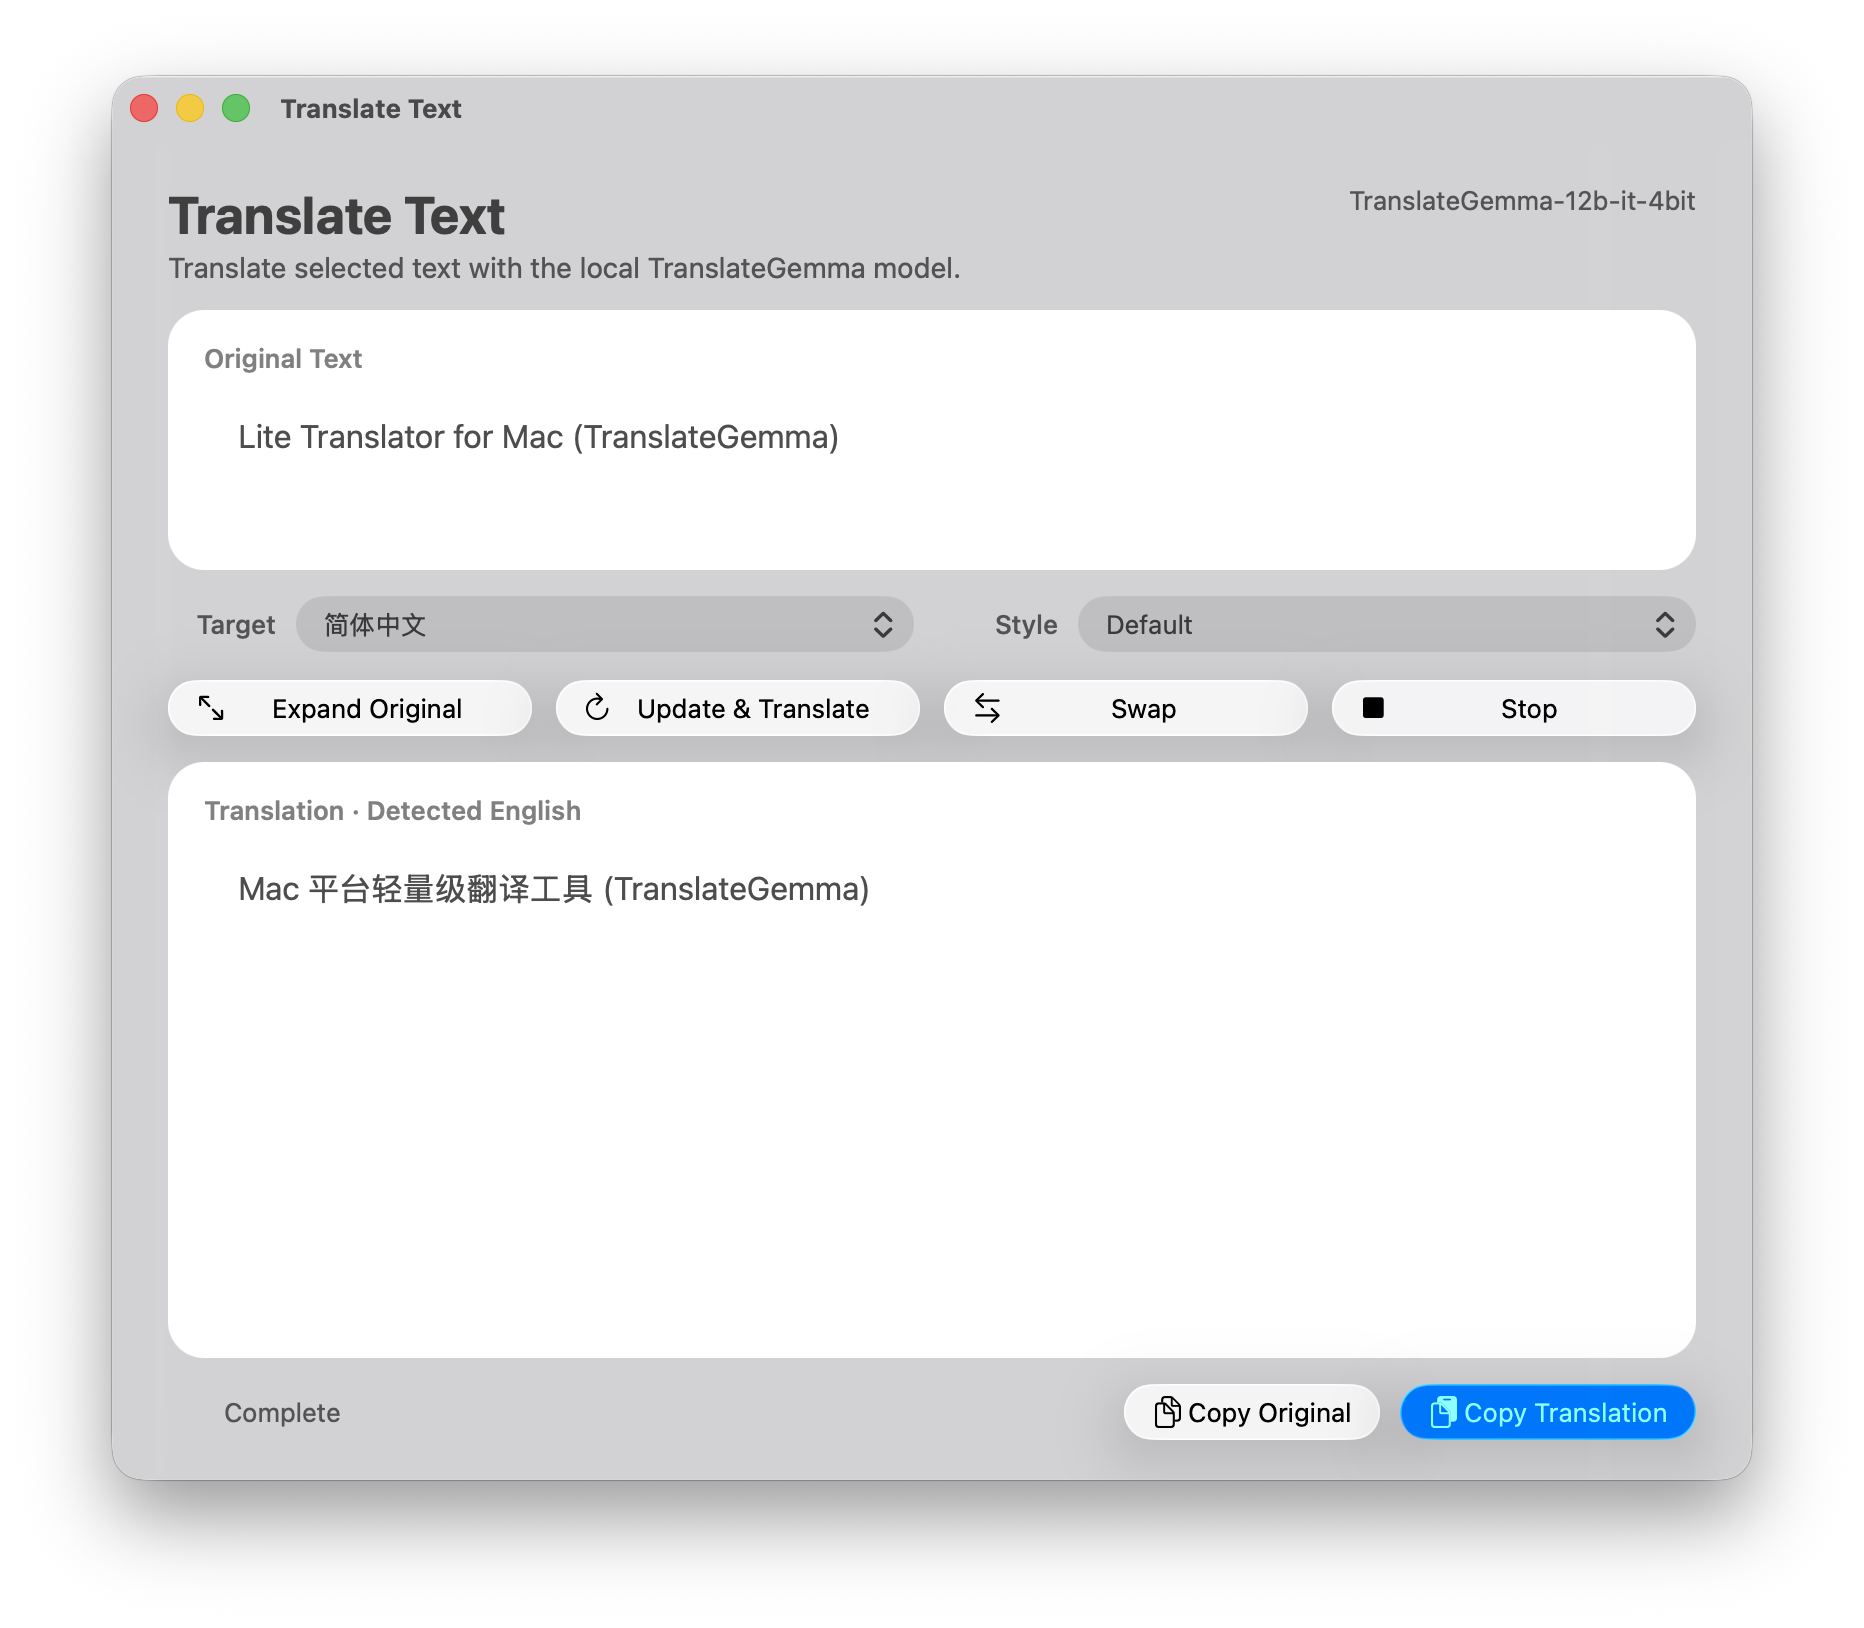
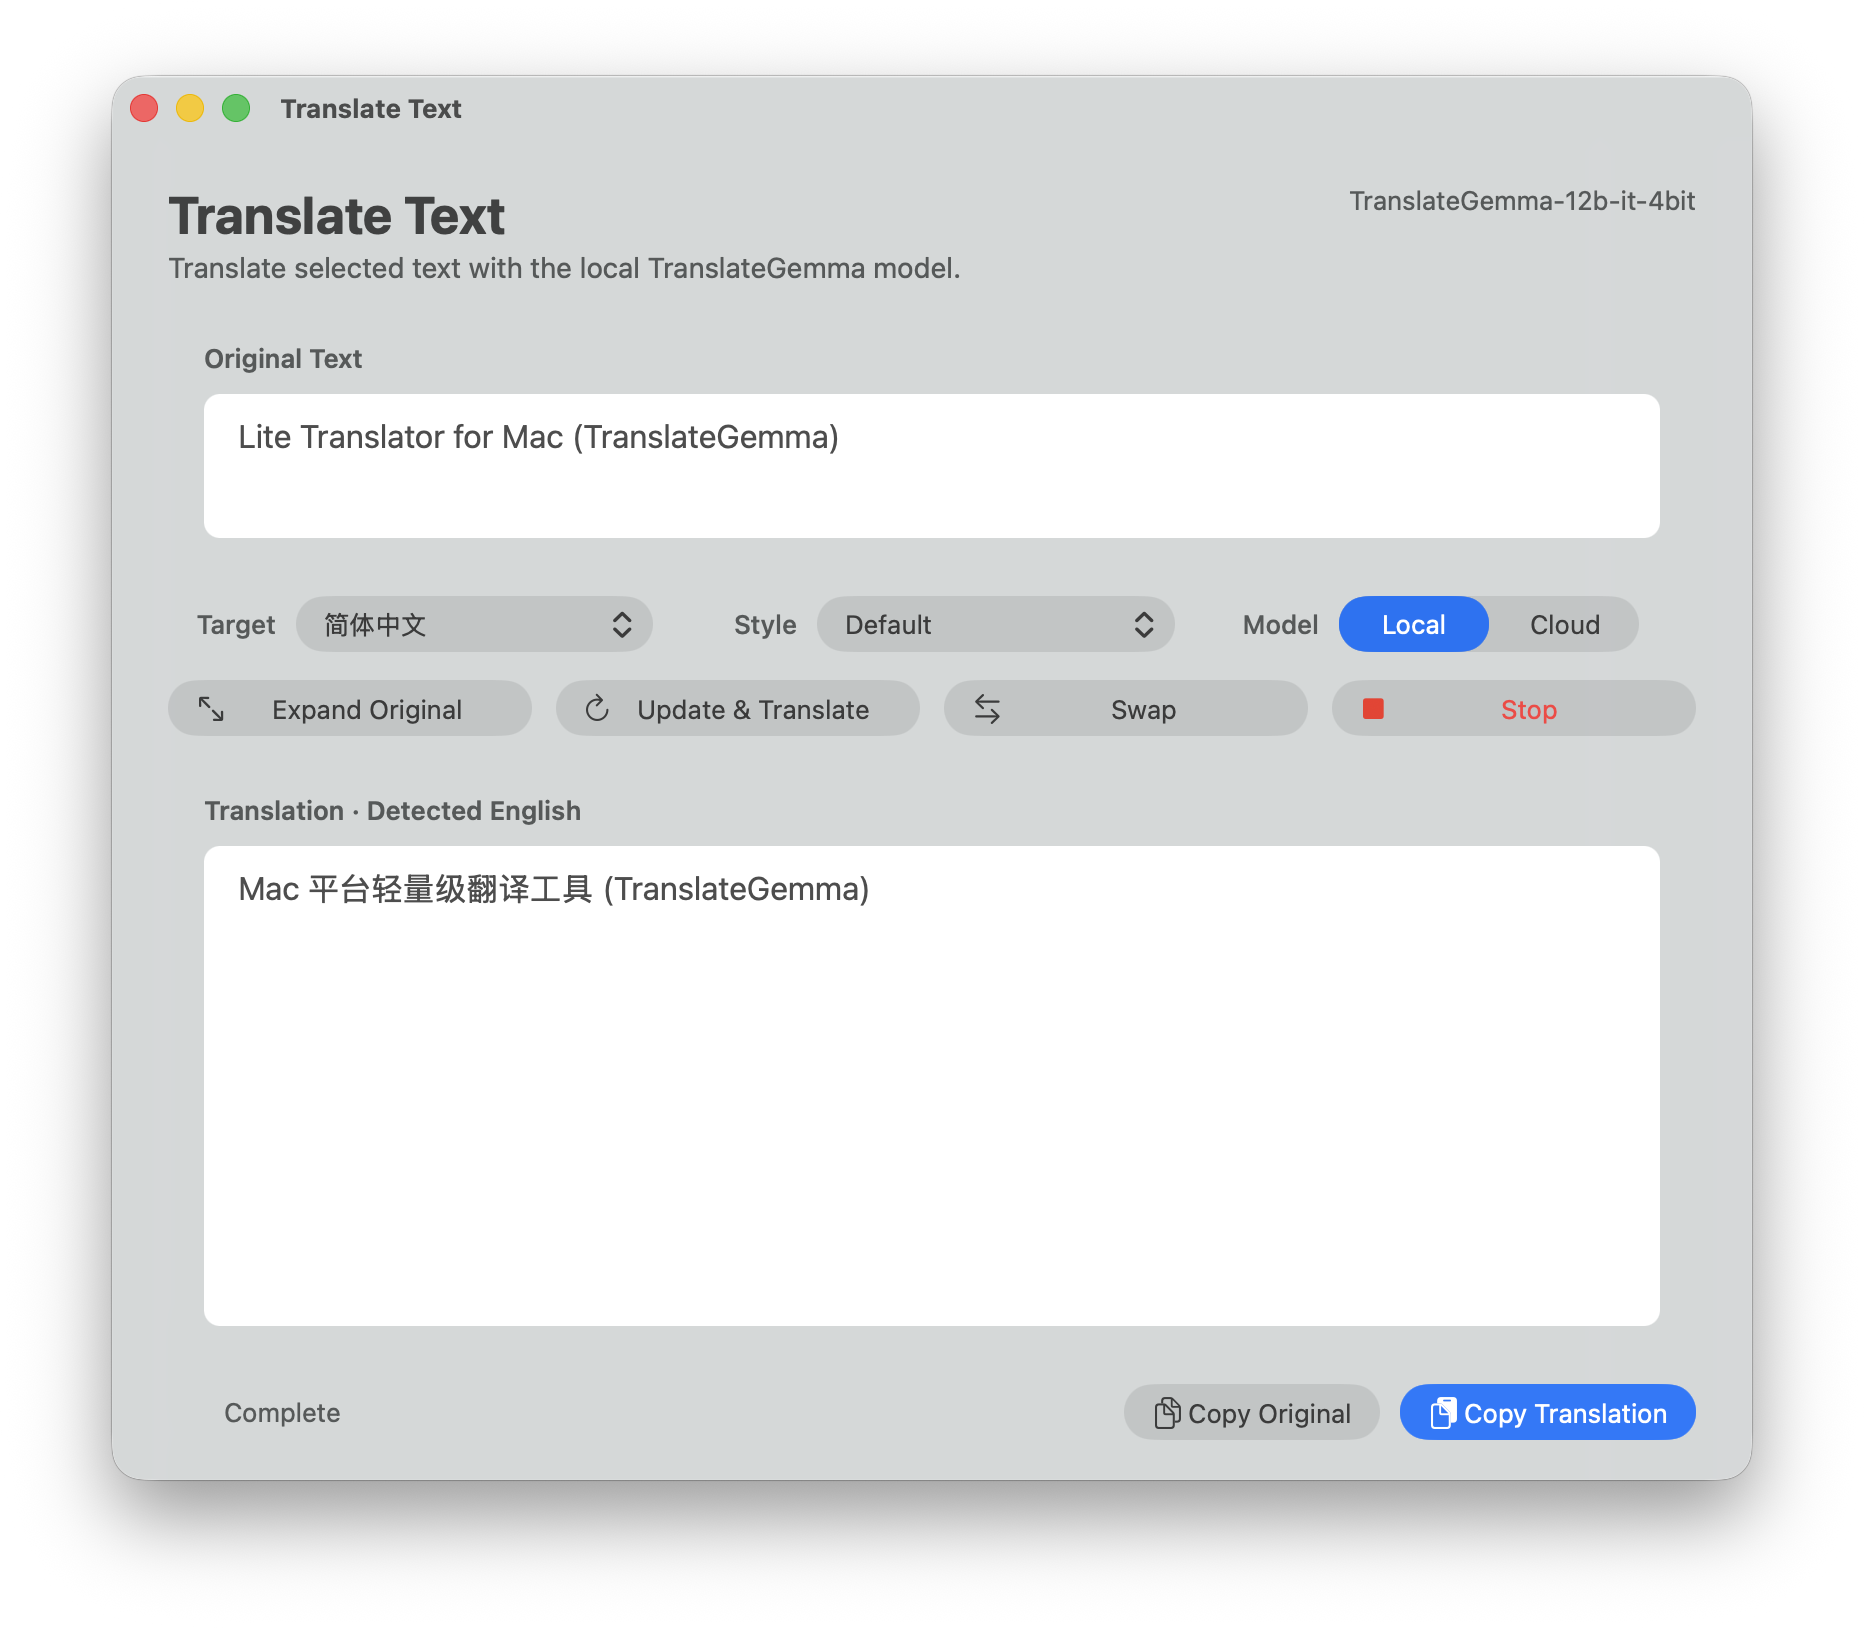
Refresh UI screenshots and text panel styling

Changed region(s): [[0.0622, 0.1843, 0.9335, 0.8907]]

diff --git a/App/Sources/TranslateText.swift b/App/Sources/TranslateText.swift
@@ -856,7 +856,8 @@ final class TranslateTextApp: NSObject, NSApplicationDelegate, NSWindowDelegate,
         originalTextView = originalScroll.documentView as? NSTextView
         originalTextView.string = initialText
         originalTextView.delegate = self
-        let originalStack = paddedStack([sectionHeader(tr("originalText")), originalScroll])
+        let originalTextBox = textBox(originalScroll)
+        let originalStack = paddedStack([sectionHeader(tr("originalText")), originalTextBox])
         originalPanel.addSubview(originalStack)
         pin(originalStack, to: originalPanel)
 
@@ -932,7 +933,8 @@ final class TranslateTextApp: NSObject, NSApplicationDelegate, NSWindowDelegate,
         translationScroll = textScroll(editable: false)
         translationTextView = translationScroll.documentView as? NSTextView
         translationHeaderLabel = label("", size: 13, weight: .semibold)
-        let translationStack = paddedStack([sectionHeader(translationHeaderLabel), translationScroll])
+        let translationTextBox = textBox(translationScroll)
+        let translationStack = paddedStack([sectionHeader(translationHeaderLabel), translationTextBox])
         translationPanel.addSubview(translationStack)
         pin(translationStack, to: translationPanel)
         updateTranslationHeader()
@@ -969,7 +971,7 @@ final class TranslateTextApp: NSObject, NSApplicationDelegate, NSWindowDelegate,
         mainContent.translatesAutoresizingMaskIntoConstraints = false
         rootView.addSubview(mainContent)
 
-        originalHeightConstraint = originalScroll.heightAnchor.constraint(equalToConstant: 72)
+        originalHeightConstraint = originalTextBox.heightAnchor.constraint(equalToConstant: 72)
 
         NSLayoutConstraint.activate([
             mainContent.topAnchor.constraint(equalTo: rootView.topAnchor),
@@ -994,7 +996,7 @@ final class TranslateTextApp: NSObject, NSApplicationDelegate, NSWindowDelegate,
             originalHeightConstraint,
             originalScroll.widthAnchor.constraint(greaterThanOrEqualToConstant: 600),
             translationScroll.widthAnchor.constraint(greaterThanOrEqualToConstant: 600),
-            translationScroll.heightAnchor.constraint(greaterThanOrEqualToConstant: 240),
+            translationTextBox.heightAnchor.constraint(greaterThanOrEqualToConstant: 240),
             footerProgress.widthAnchor.constraint(equalToConstant: 20),
             footerProgress.heightAnchor.constraint(equalToConstant: 20),
             targetPopup.widthAnchor.constraint(greaterThanOrEqualToConstant: 160),
@@ -1888,18 +1890,25 @@ final class TranslateTextApp: NSObject, NSApplicationDelegate, NSWindowDelegate,
         return scroll
     }
 
+    private func textBox(_ scroll: NSScrollView) -> NSVisualEffectView {
+        let box = NSVisualEffectView()
+        box.material = .contentBackground
+        box.blendingMode = .withinWindow
+        box.state = .active
+        box.wantsLayer = true
+        box.layer?.cornerRadius = 8
+        box.layer?.masksToBounds = true
+        box.addSubview(scroll)
+        pin(scroll, to: box)
+        return box
+    }
+
     private func bodyTextFont() -> NSFont {
         NSFont.systemFont(ofSize: 16)
     }
 
-    private func panel() -> NSVisualEffectView {
-        let view = NSVisualEffectView()
-        view.material = .contentBackground
-        view.blendingMode = .withinWindow
-        view.state = .active
-        view.wantsLayer = true
-        view.layer?.cornerRadius = 18
-        return view
+    private func panel() -> NSView {
+        NSView()
     }
 
     private func paddedStack(_ views: [NSView]) -> NSStackView {

diff --git a/README.md b/README.md
@@ -6,7 +6,9 @@ A native macOS translator with a local **TranslateGemma** MLX backend and option
 
 ## Highlights
 
-![AppKit GUI](Screenshots/AppKit_GUI.png)
+![Light UI](Screenshots/Light_UI.png)
+
+![Full UI](Screenshots/AppKit_GUI.png)
 
 - Native AppKit interface with light/dark appearance support.
 - Local translation through `mlx-lm`, plus optional Google or Bing cloud translation without API keys.

diff --git a/README-zh.md b/README-zh.md
@@ -6,7 +6,9 @@
 
 ## 主要特性
 
-![AppKit GUI](Screenshots/AppKit_GUI.png)
+![Light UI](Screenshots/Light_UI.png)
+
+![Full UI](Screenshots/AppKit_GUI.png)
 
 - 原生 AppKit 界面，支持浅色/深色外观。
 - 使用 `mlx-lm` 在本地翻译，也可使用无需 API Key 的 Google 或 Bing 云端翻译。
